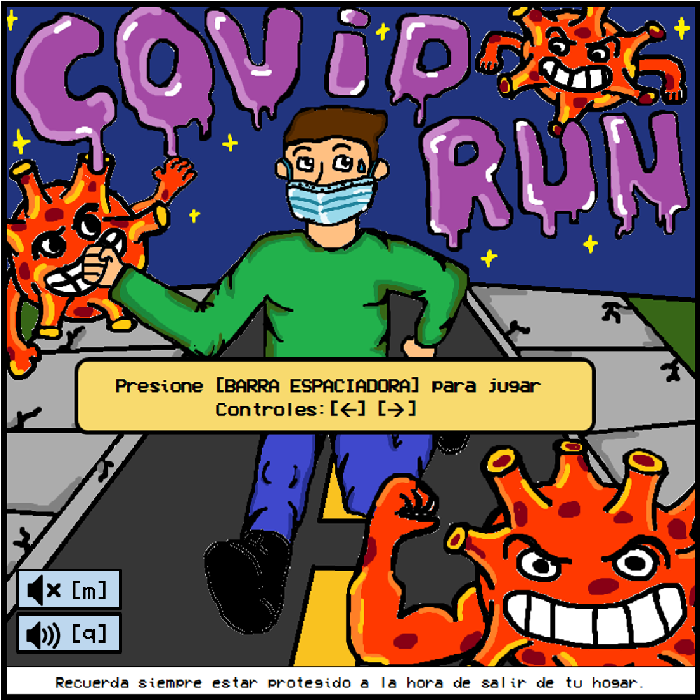
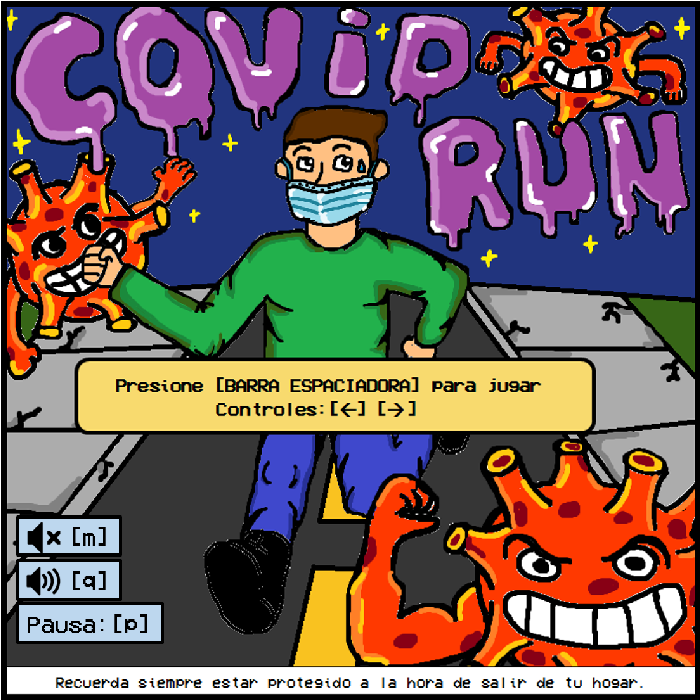
Add files via upload
version final

diff --git a/icc/main.py b/icc/main.py
@@ -13,14 +13,14 @@ humanito2 = pygame.image.load("humanito2.png")
 mascarillita = pygame.image.load("mascarilla.png")
 calle = pygame.image.load("calle.png")
 caratula = pygame.image.load("caratulainicio.png")
-caratulafinal = pygame.image.load("caratulafinal.png")
-sonidotoz = pygame.mixer.Sound("toz2.wav") #sacar sonidos
+caratulafinal = pygame.image.load("gameoverscreen.png")
+
+sonidotoz = pygame.mixer.Sound("toz2.wav") #sacar sonidos de files
 sonidopresi = pygame.mixer.Sound("presi.wav")
 musicainicio = pygame.mixer.music.load("enpartida.mp3")
-pygame.mixer.music.set_volume(0.01)
-#musicapartida = pygame.mixer.sound("enpartida.mp3")
+pygame.mixer.music.set_volume(0.009)
 
-class jugador(object):
+class jugador(object):           #Clase de jugador como objeto
     def __init__(self, x, y, width, height):
         self.x = x
         self.y = y
@@ -31,7 +31,7 @@ class jugador(object):
         self.visible = True
         self.hitbox = (self.x, self.y, 90, 50)
 
-    def draw(self, win):
+    def draw(self, win):  #Para que dibuje el sprite del humano
         global tiempo
         global personaje
         #datetime.datetime.now().microsecond % 2
@@ -49,7 +49,7 @@ class jugador(object):
         #pygame.draw.rect(win, (255,0,0), self.hitbox,2)
         win.blit(personaje, (self.x, self.y)) #para que se dibuje la imagen en la pantalla
 
-    def hit(self):
+    def hit(self):  #funcion para que cuando choca
         #self.x = 325
         #self.y = 600
         #self.contapasos = 0
@@ -68,22 +68,20 @@ class jugador(object):
                     i = 301
                     pygame.quit()
 
-class viruses(object):
-    def __init__(self, x, y, width, height, end):
+class viruses(object):  #la clase de los viruses donde se define que es un virus
+    def __init__(self, x, y, width, height, end): #condiciones iniciales
         self.x = x
         self.y = y
         self.height = height
         self.width = width
         self.end = end
         self.path = (self.x, self.end)
-        #self.contapasos = 0
         self.vel = 5
         self.x = random.randrange(0,700)
         self.hitbox = (self.x, self.y, 50, 50)
 
 
-    def draw(self,win):
-            #cambiar si no funca
+    def draw(self,win): #para que se dibujen los viruses
         self.move()
         self.hitbox = (self.x, self.y, 50, 57)
         #pygame.draw.rect(win, (255,0,0), (self.hitbox[0], self.hitbox[1] - 20, 50, 50 ))
@@ -91,14 +89,14 @@ class viruses(object):
         self.hitbox = (self.x, self.y, 50, 50)
             #pygame.draw.rect(win, (255,0,0), self.hitbox, 2)
 
-    def move(self): #Esto controla el movimiento en el path para si llega a un limite se da vuelta y cambia de direccion
+    def move(self): #controla el movimiento
         if self.vel > 0:
             if self.x + self.vel < self.path[1]: #Esto hace que el personaje solo se mueve si esta dentro de self.path que son los limites
                 self.y += self.vel
 
 
-class mascarillas(object):
-    def __init__(self, x, y, width, height, end):
+class mascarillas(object): #la clase de las mascarillas
+    def __init__(self, x, y, width, height, end): #condiciones de la mascarilla
         self.x = x
         self.y = y
         self.height = height
@@ -110,7 +108,7 @@ class mascarillas(object):
         self.y = -1000 - random.randrange(500,3000) #donde aparece la mascarilla
         self.hitbox = (self.x, self.y, 50, 50)
 
-    def draw(self,win):
+    def draw(self,win): #dibuja la mascarilla
         self.move()
         self.hitbox = (self.x, self.y, 50, 57)
         #pygame.draw.rect(win, (255,0,0), (self.hitbox[0], self.hitbox[1] - 20, 50, 50 ))
@@ -118,12 +116,12 @@ class mascarillas(object):
         self.hitbox = (self.x, self.y, 50, 50)
         #pygame.draw.rect(win, (255,0,0), self.hitbox, 2)
 
-    def move(self): #Esto controla el movimiento en el path para si llega a un limite se da vuelta y cambia de direccion
+    def move(self): #Esto controla el movimiento
         if self.vel > 0:
             if self.x + self.vel < self.path[1]: #Esto hace que el personaje solo se mueve si esta dentro de self.path que son los limites
                 self.y += self.vel
 
-    def hit(self):
+    def hit(self): #funcion para cuando chocas con algo
         font1 = pygame.font.SysFont("comicsans", 100)
         text = font1.render("+1 VIDA", 1, (15,200,240))
         text2 = font1.render("+1 VIDA", 1, (255, 255, 255))
@@ -134,7 +132,7 @@ class mascarillas(object):
         while i < 300:
             pygame.time.delay(5)
             i += 1
-            for event in pygame.event.get():
+            for event in pygame.event.get():    #condicion ara que el delay no ocurra cuando se quiere salir
                 if event.type == pygame.QUIT:
                     i = 301
                     pygame.quit()
@@ -148,7 +146,7 @@ class mascarillas(object):
     surface.blit(textobj, textrect)"""
 
 
-def pprincipal():
+def pprincipal(): #funcion de la pantalla de inicio
     pygame.mixer.music.play(-1)
     intro = True
     while intro:
@@ -160,12 +158,12 @@ def pprincipal():
         font2 = pygame.font.SysFont("comicsans", 50)
         #highscore = font2.render(f"Puntuación máxima: {str(puntajemax)}", 1, (15,200,240))
 
-        win.blit(caratula, (-3,0))
+        win.blit(caratula, (-3,0)) #aca se dibuja la caratula en la pantalla
         #win.blit(textmenu, (160, 200))
         #win.blit(highscore, (300, 500))
         pygame.display.update()
 
-        for event in pygame.event.get():
+        for event in pygame.event.get():    #condicion de salida
             if event.type == pygame.QUIT:
                 pygame.quit()
                 quit()
@@ -173,28 +171,33 @@ def pprincipal():
                 if event.key == pygame.K_SPACE:
                     intro = False
                     #musicapartida.play()
-def pausa():
+def pausa(): #funcion para que pueda haber una pausa
     pause = True
     while pause:
         font1 = pygame.font.SysFont("comicsans", 100)
-        textmenu = font1.render("PAUSA", 1, (0,200,0))
+        textmenu = font1.render("PAUSA", 1, (163,73,164)) #los textos cuando estas en pausa
+        textmenu2 = font1.render("PAUSA", 1, (0,0,0))
 
         font2 = pygame.font.SysFont("comicsans", 50)
-        pausado = font2.render("presiona r para continuar", 1, (15,200,0))
-        win.blit(pausado, (150, 300))
-        win.blit(textmenu, (250, 200))
+        pausado = font2.render("presiona r para continuar", 1, (164,73,164))
+        pausado2 = font2.render("presiona r para continuar", 1, (0,0,0))
 
-        pygame.display.update()
+        win.blit(pausado2, (153, 302))
+        win.blit(pausado, (150, 300))   #aca se dibujan los textos
+        win.blit(textmenu2, (248, 202))
+        win.blit(textmenu, (245, 200))
+
+        pygame.display.update() #El update para que se refreshee la pantalla
 
         for event in pygame.event.get():
             if event.type == pygame.QUIT:
-                pygame.quit()
+                pygame.quit()               #condicion de salida
                 quit()
             if event.type == pygame.KEYDOWN:
                 if event.key == pygame.K_r:
                     pause = False
                     pygame.time.delay(1000)
-def gameover():
+def gameover():    #funcion para la pantalla de gameover
     global masaltapuntuacion
     global puntajeactual
     over = True
@@ -205,44 +208,44 @@ def gameover():
         textmenu = font1.render("GAME OVER", 1, (245,0,0))
         textmenu2 = font1.render("GAME OVER", 1, (0,0,0))
         font2 = pygame.font.SysFont("comicsans", 50)
-        reiniciar = font2.render("presione x para reiniciar", 1, (15,200,240))
+        reiniciar = font2.render("presione x para reiniciar", 1, (15,200,240))  #aca se definen los textos
         reiniciar2 = font2.render("presione x para reiniciar", 1, (0,0,0))
 
         font2 = pygame.font.SysFont("comicsans", 50)
         highscore = font2.render(f"Puntuación máxima: {str(puntajemax)}", 1, (163,73,164))
 
-        currentscore = font2.render(f"Puntuación actual: {str(puntajeactual)}", 1, (163,73,164))
+        currentscore = font2.render(f"Puntuación actual: {str(puntajeactual)}", 1, (55,102,23))
 
-        win.fill((255,255,255))
+        win.fill((255,255,255))             #aca se imprimen los textos
         win.blit(caratulafinal, (0,0))
-        win.blit(reiniciar2, (151, 351))
-        win.blit(reiniciar, (150, 350))
-        win.blit(textmenu2, (136, 271))
-        win.blit(textmenu, (135, 273))
-        win.blit(currentscore, (165, 400))
-        win.blit(highscore, (150, 450))
+        win.blit(reiniciar2, (151, 91))
+        win.blit(reiniciar, (150, 90))
+        win.blit(textmenu2, (136, 21))
+        win.blit(textmenu, (135, 23))
+        win.blit(currentscore, (165, 140))
+        win.blit(highscore, (150, 180))
 
-        pygame.display.update()
+        pygame.display.update()     #siempre se refreshea la pantalla
 
         for event in pygame.event.get():
-            if event.type == pygame.QUIT:
+            if event.type == pygame.QUIT:  #Condicion de salida
                 pygame.quit()
                 quit()
             if event.type == pygame.KEYDOWN:
                 if event.key == pygame.K_x:
                     over = False
-def maxpuntaje ():
+def maxpuntaje ():   #funcion que escribe en un archivo los highscores
     global masaltapuntuacion
     puntuacionmaxima = open("highscore.txt", "w")
     puntuacionmaxima.write(str(masaltapuntuacion))
     print(masaltapuntuacion)
     puntuacionmaxima.close()
 
-def redrawGameWindow():
+def redrawGameWindow():  #aca se dibuja casitodo lo que aparece en la ventana
     win.blit(calle, (0,0))
     hombre.draw(win)
     virus.draw(win)
-    virus2.draw(win)
+    virus2.draw(win)        #blit es para dibujar las cosas en la pantalla
     virus3.draw(win)
     mascarilla1.draw(win)
     textvidas = font.render("Vidas: " + str(vidas), 1, (255,255,255))
@@ -253,8 +256,9 @@ def redrawGameWindow():
     win.blit(puntos2, (549,9))
     win.blit(textvidas, (10, 10))
     win.blit(textvidas2, (9, 9))
-    pygame.display.update()
+    pygame.display.update()  #el refresh siempre esta ahi pq sino no se actualizan las imagenes
 
+#variables variadas:
 cont = 0
 virus = viruses(50,0,100,100,700)
 virus2 = viruses(50,0,100,150,700)
@@ -276,17 +280,17 @@ vidas = 3
 empezar = 0
 hombre = jugador(325, 600, 90, 50)
 corre = True
-while corre: #MAIN LOOOOOP
+while corre: #MAIN LOOOOOP el mainloop es el while que corre siempre
 
     reloj.tick(60)
     for event in pygame.event.get():
-        if event.type == pygame.QUIT:
+        if event.type == pygame.QUIT:   #condicion de salida
             corre = False
     teclas = pygame.key.get_pressed()
 
 #self.hitbox = (self.x, self.y, 50, 50)
 
-    for covi in numviruses:
+    for covi in numviruses: #for para revisar si choca con un virus
         if pygame.time.get_ticks() > tiempo1+2000:
             if hombre.hitbox[1] < covi.hitbox[1] + covi.hitbox[3] and hombre.hitbox[1] + hombre.hitbox[3] > covi.hitbox[1]:
                 if hombre.hitbox[0] + hombre.hitbox[2] > covi.hitbox[0] and hombre.hitbox[0] < covi.hitbox[0] + covi.hitbox[2]:
@@ -295,7 +299,7 @@ while corre: #MAIN LOOOOOP
                     tiempo1 = pygame.time.get_ticks()
                     vidas -= 1
 
-
+#optimizacion del codigo
     """if pygame.time.get_ticks() > tiempo1+2000:
         if hombre.hitbox[1] < virus.hitbox[1] + virus.hitbox[3] and hombre.hitbox[1] + hombre.hitbox[3] > virus.hitbox[1]:
             if hombre.hitbox[0] + hombre.hitbox[2] > virus.hitbox[0] and hombre.hitbox[0] < virus.hitbox[0] + virus.hitbox[2]:
@@ -321,7 +325,7 @@ while corre: #MAIN LOOOOOP
                 vidas -= 1"""
 
 
-    if pygame.time.get_ticks() > tiempo4+2000:
+    if pygame.time.get_ticks() > tiempo4+2000: #for que detecta impacto entre el hombre y la mascarilla
         if hombre.hitbox[1] < mascarilla1.hitbox[1] + mascarilla1.hitbox[3] and hombre.hitbox[1] + hombre.hitbox[3] > mascarilla1.hitbox[1]:
             if hombre.hitbox[0] + hombre.hitbox[2] > mascarilla1.hitbox[0] and hombre.hitbox[0] < mascarilla1.hitbox[0] + mascarilla1.hitbox[2]:
                 sonidopresi.play()
@@ -341,11 +345,11 @@ while corre: #MAIN LOOOOOP
     if virus2.hitbox[1] < virus3.hitbox[1] + virus3.hitbox[3] and virus2.hitbox[1] + virus2.hitbox[3] > virus3.hitbox[1]:
         if virus2.hitbox[0] + virus2.hitbox[2] > virus3.hitbox[0] and virus2.hitbox[0] < virus3.hitbox[0] + virus3.hitbox[2]:
             virus2.x = random.randrange(0,650)
-
+    #para que mascarilla regrese arriba de la pantalla en una posicion aleatoria
     if mascarilla1.y > 700:
         mascarilla1.y = -1000 - random.randrange(1000,2500)
         mascarilla1.x = random.randrange(0,650)
-
+    # para que los viruses regresen arriba de la pantalla en una posicion aleatoria
     for covi in numviruses: #modificacion el el y para que no esten juntitos
         if covi.y > 700:
             puntaje += 1
@@ -366,7 +370,7 @@ while corre: #MAIN LOOOOOP
         puntaje += 1
         virus3.y = -50
         virus3.x = random.randrange(0,650)"""
-
+    #lo que aumenta la velocidad de los viruses
     for covis in numviruses:
         if pygame.time.get_ticks() > 10000:
             covis.vel += 0.001
@@ -379,7 +383,7 @@ while corre: #MAIN LOOOOOP
 
     if pygame.time.get_ticks() > 12000:
         virus3.vel += 0.001"""
-
+    #movimiento del personaje
     if teclas[pygame.K_RIGHT] and hombre.x < 700 - hombre.width - hombre.vel:
         hombre.x += hombre.vel
 
@@ -387,14 +391,17 @@ while corre: #MAIN LOOOOOP
         hombre.x -= hombre.vel
     #else:
         #hombre.contapasos = 0
+    #deteccion de teclas para funciones variadas
     if teclas[pygame.K_p]:
         pausa()
     if teclas[pygame.K_m]:
         pygame.mixer.music.pause()
     if teclas[pygame.K_q]:
         pygame.mixer.music.unpause()
+
     puntajeactual = puntaje
-    if vidas == 0:
+
+    if vidas == 0: #bucle de perdida basicamente reinicia todos los valores a como eran antes y activa funciones como la que registra puntaje maximo y la que muestra el gamover
         maxp = open("highscore.txt", "r")
         masaltapuntuacion = int(maxp.readline().split()[0])
         if puntaje > masaltapuntuacion:
@@ -420,5 +427,5 @@ while corre: #MAIN LOOOOOP
         maxpuntaje ()
 
     #win.fill((250,250,250))
-    redrawGameWindow()
+    redrawGameWindow() #imprime lo del redraw
 pygame.quit()
